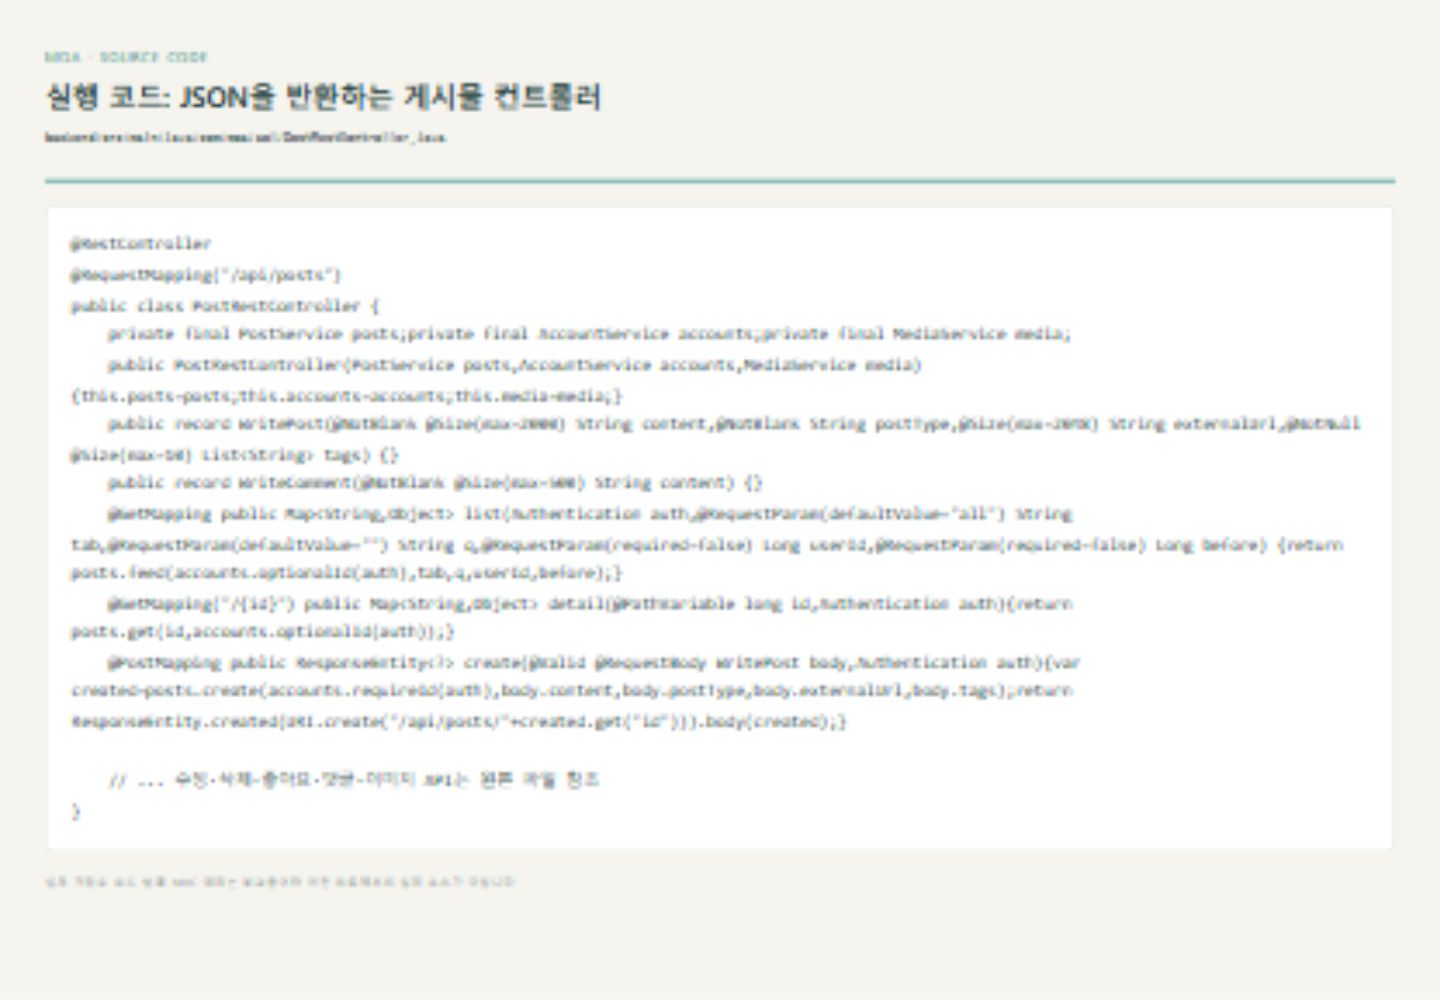
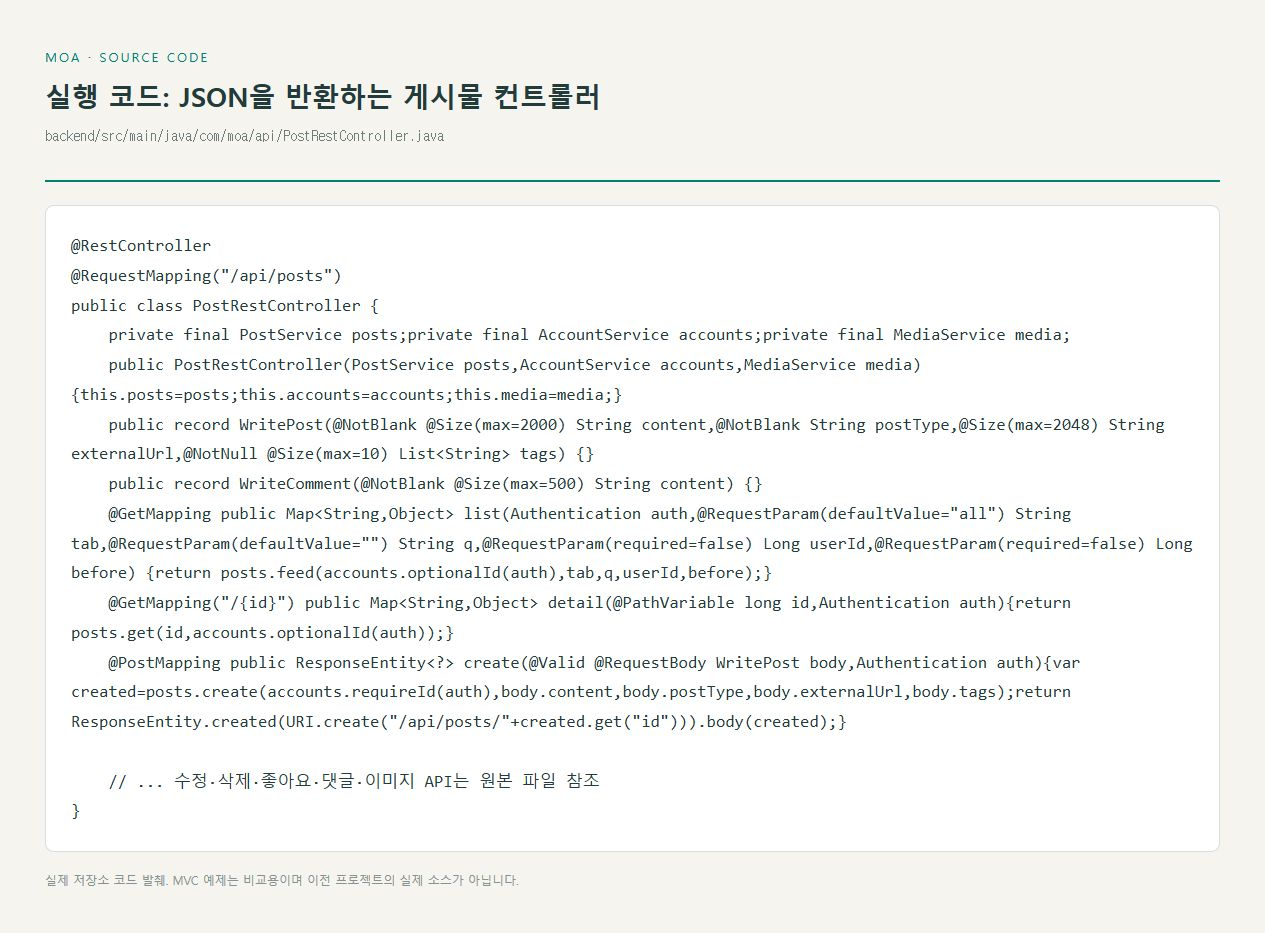
docs: record passing GitHub checks and refine capture readability

diff --git a/docs/development-log.md b/docs/development-log.md
@@ -18,7 +18,9 @@ GitHub의 Commits·Branches 화면에서 실제 커밋 메시지와 브랜치를
 - 백엔드 테스트: Java 25에서 Java 21 대상으로 컴파일, H2 메모리 DB에서 HTTP 통합 테스트 14개 통과
 - 백엔드 패키지: Spring Boot 실행 JAR 생성
 - 프론트: Vite 프로덕션 번들 생성, 로컬 환경의 자식 프로세스 실행 제약 때문에 인프로세스 Babel 변환을 적용한 검증 경로 사용
-- 표준 `npm ci`와 `npm run build`는 GitHub Actions의 Linux 환경에서도 확인하도록 설정
+- 표준 `npm ci`, `npm run build`, 프론트 API 테스트 4개가 GitHub Actions의 Linux 환경에서 통과
+- Java 21의 GitHub Actions에서도 백엔드 테스트·패키지 검증 통과
+- [실제 CI 실행 결과](https://github.com/WonJiSun0730/projectmoa/actions/runs/41565403689)
 - 실제 브라우저: 로그인, 홍보 글 저장, 상세 페이지, 댓글 작성, 내 활동 집계 확인
 - 모바일: 360px 대응, 가로 넘침 없음
 

diff --git a/README.md b/README.md
@@ -75,7 +75,7 @@ npm run build
 
 `backend/target/moa-1.0.0.jar`와 `frontend/dist/`를 생성합니다. 프론트는 `/api`를 백엔드로 전달하는 같은 출처의 웹 서버 뒤에 배포합니다. `npm run preview`는 정적 프론트 확인용이며 API 프록시는 개발 서버에만 설정되어 있습니다.
 
-HTTP 통합 테스트는 별도의 메모리 DB를 사용합니다. 인증·CSRF·작성자 권한·멱등 좋아요·팔로우·댓글·검색·페이지 이동·숨김·파일 검증 등을 확인합니다. GitHub Actions에서도 API 검증과 프론트 빌드를 수행합니다.
+HTTP 통합 테스트 14개는 별도의 메모리 DB를 사용합니다. 인증·CSRF·작성자 권한·멱등 좋아요·팔로우·댓글·검색·페이지 이동·숨김·파일 검증 등을 확인합니다. 프론트 API 테스트 4개는 `npm test`로 실행합니다. GitHub Actions에서도 API 검증과 프론트 빌드·테스트가 통과했습니다.
 
 ## 프로젝트 구조
 

diff --git a/docs/assignment-report.md b/docs/assignment-report.md
@@ -113,6 +113,8 @@
 ## 검증과 개인 Git 이력
 
 - 실제 HTTP 통합 테스트 14개: 인증, CSRF, 소유권, 좋아요 멱등성, 팔로우, 댓글, 태그 검색, 커서 페이지 이동, 신고·숨김, 업로드 검증, 이미지 접근 통제, 로그아웃 검증
+- 프론트 API 테스트 4개: 세션·CSRF 헤더, multipart 전송, 오류 상태 전달, 인증 변경 후 토큰 재발급
+- GitHub Actions: Java 21 백엔드 검증과 Node 22 프론트 표준 빌드·테스트 통과
 - 브라우저 확인: 데모 로그인, 홍보 게시물 작성·저장, 상세 링크, 댓글 등록, 반응 집계, 오류 로그 확인
 - 모바일 360px 화면의 가로 넘침 여부 확인
 - 캡처는 로컬에서 실행한 실제 화면입니다. 회원·게시물·반응 수는 설명용 데모 데이터와 테스트 입력입니다.
